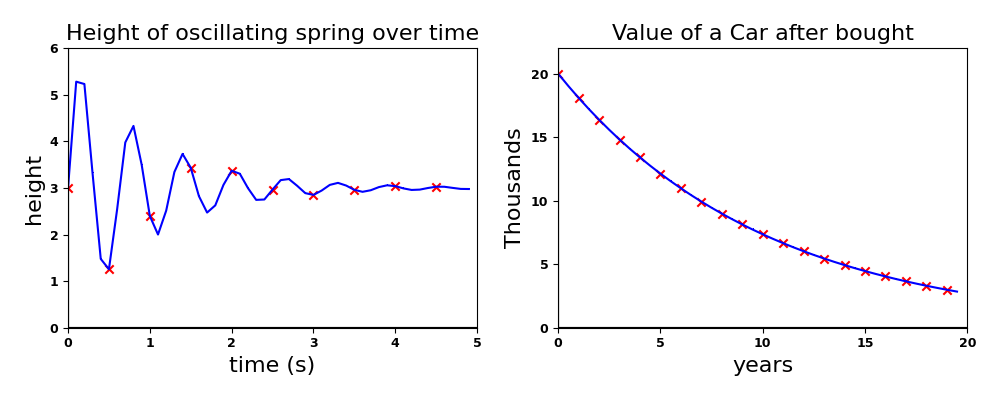
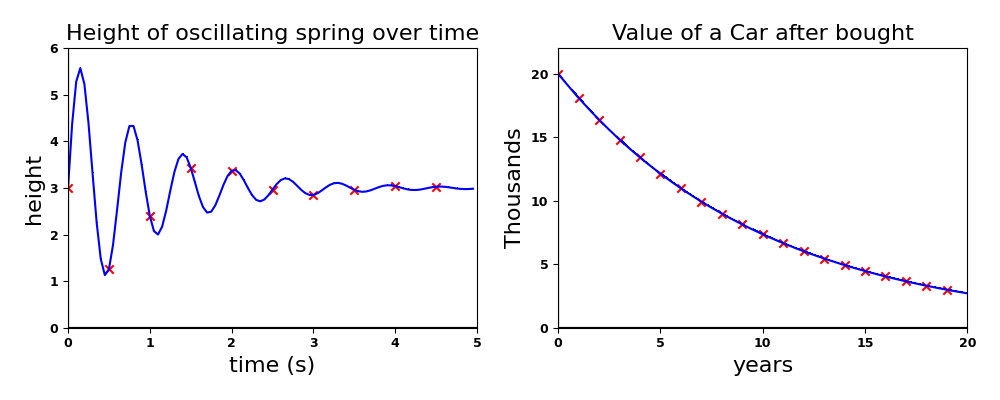
not important enough to comment

diff --git a/kernel_theory/cauchy_sequences.py b/kernel_theory/cauchy_sequences.py
@@ -10,12 +10,12 @@ import wplotlib
 import wuml
 import numpy as np
 
-x = np.arange(0, 5, 0.1)
+x = np.arange(0, 5, 0.05)
 y = 3*np.exp(-x)*np.sin(10*x) + 3
 x2 = np.arange(0, 5, 0.5)
 y2 = 3*np.exp(-x2)*np.sin(10*x2) + 3
 
-x3 = np.arange(0, 20, 0.5)
+x3 = np.arange(0, 20, 0.05)
 y3 = 20*np.exp(-x3/10)
 
 x4 = np.arange(0, 20, 1)
